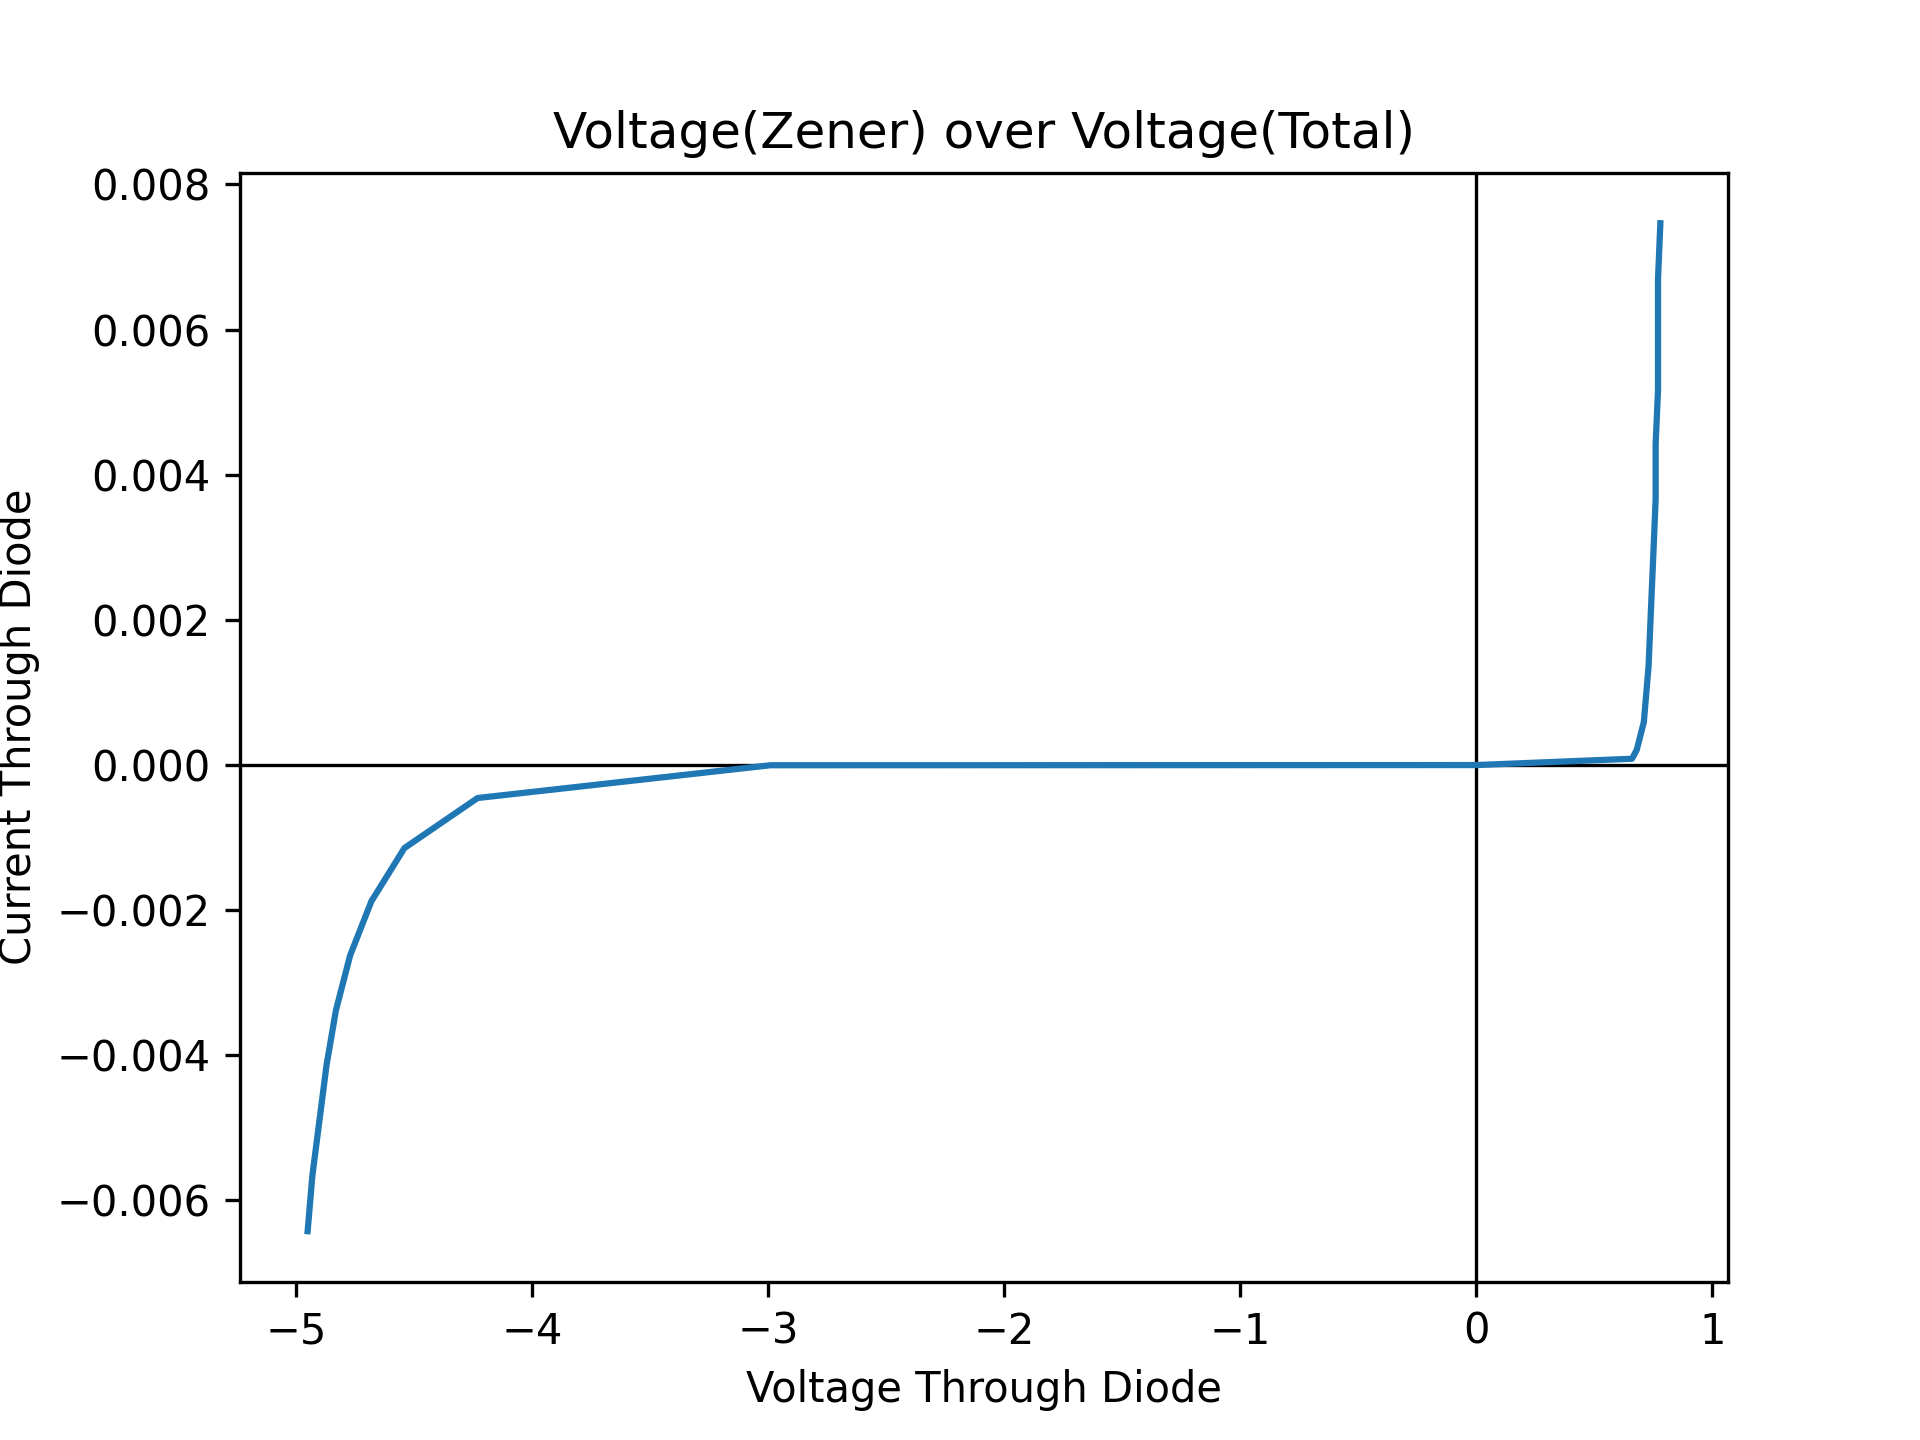
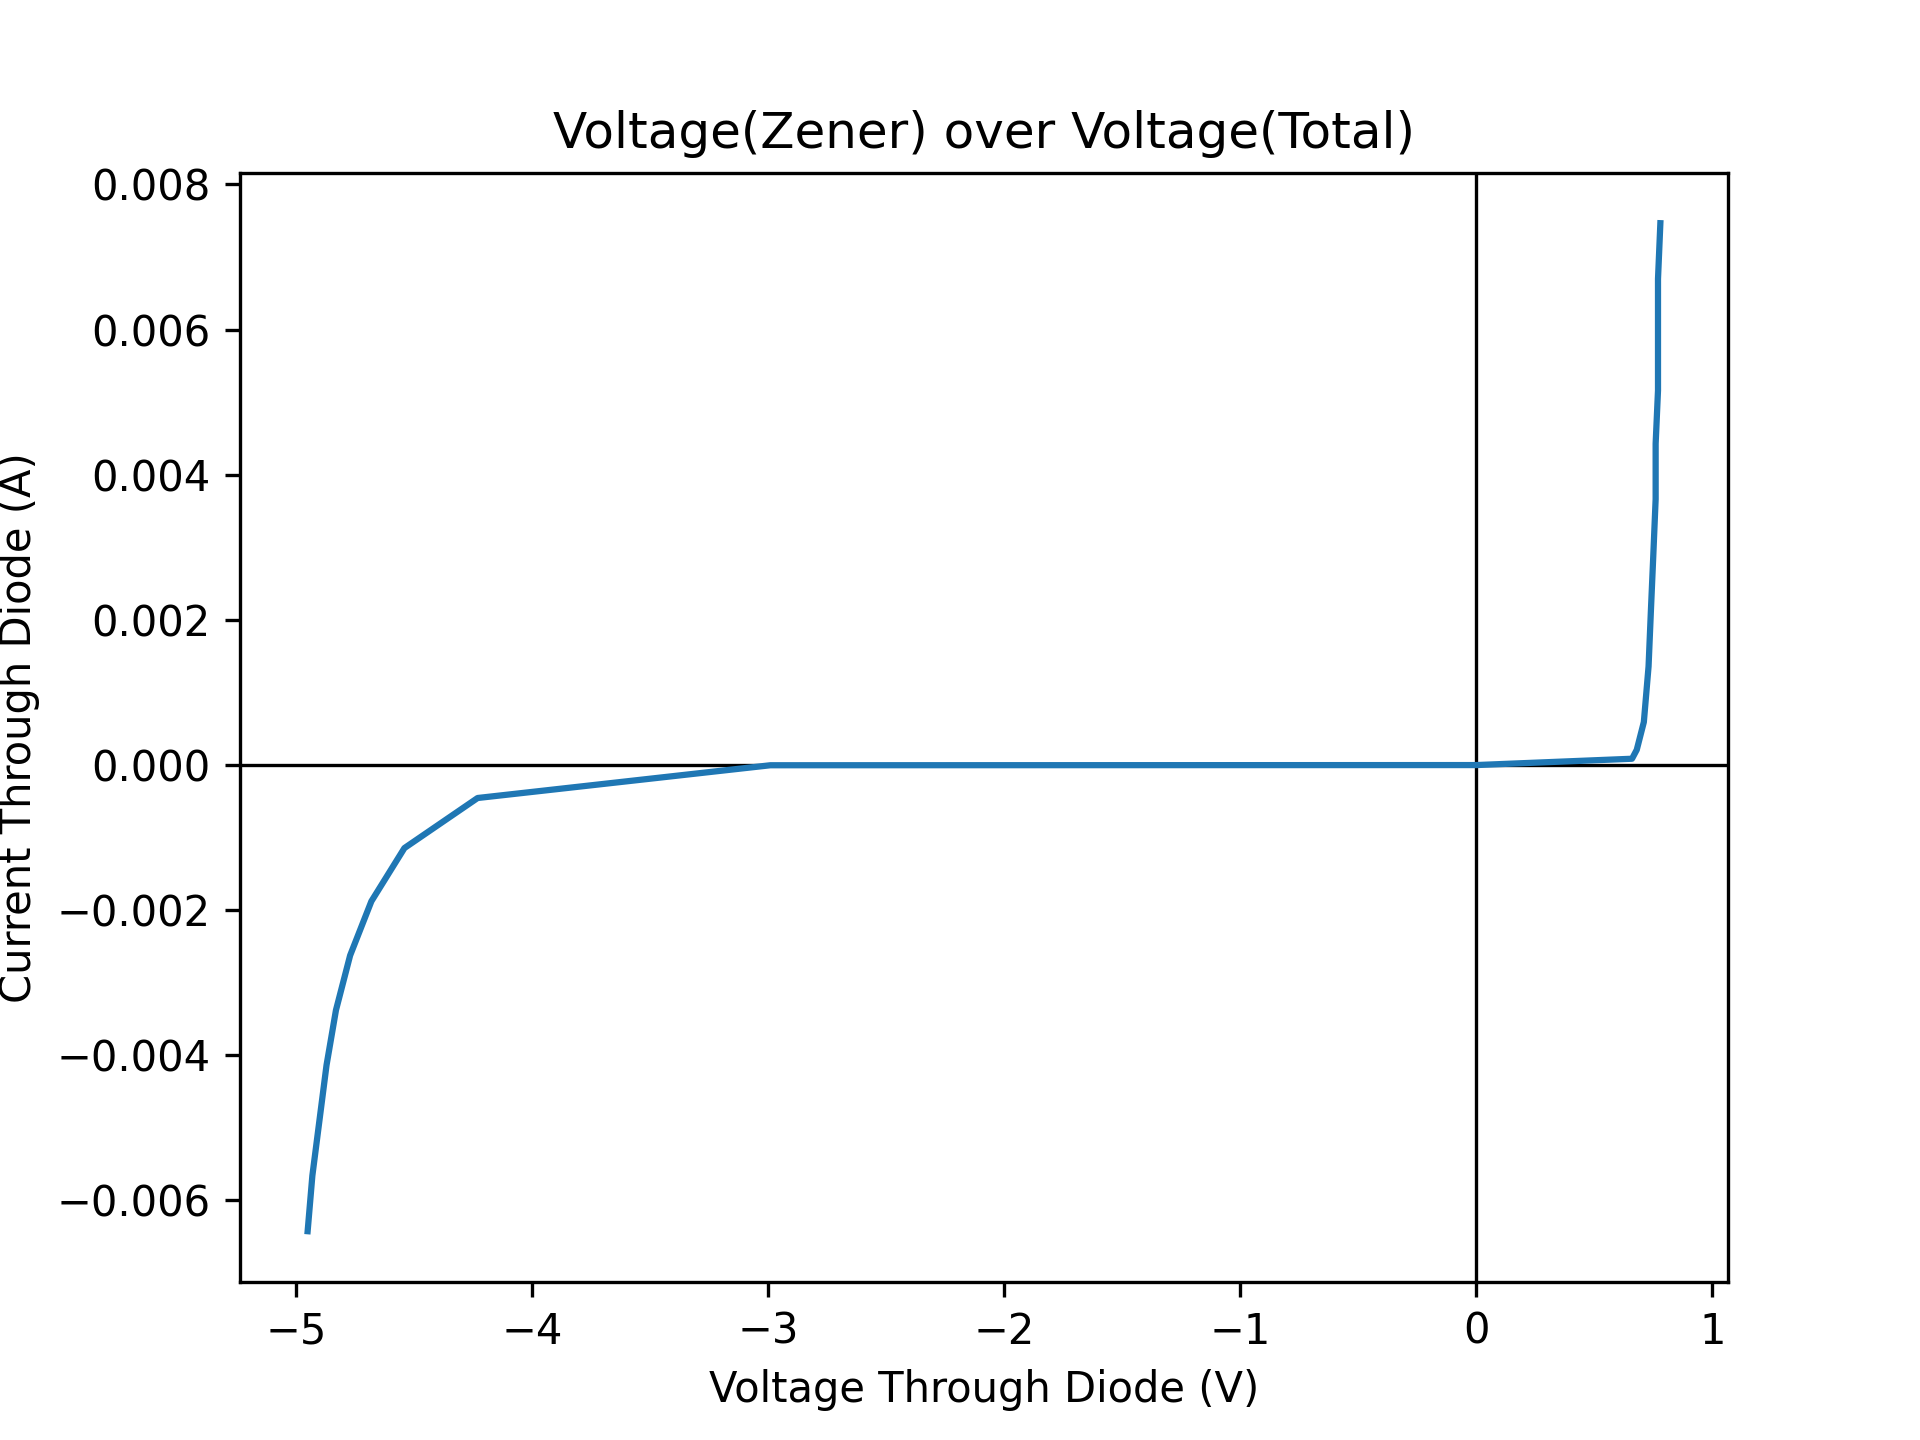
gitshit

Changed region(s): [[0.375, 0.9375, 0.6562, 1.0], [0.0, 0.3125, 0.0312, 0.6875]]

diff --git a/src/9week/physics/physics.py b/src/9week/physics/physics.py
@@ -48,26 +48,19 @@ v1v2list.sort(key=lambda x: x[0])
 v1list = [x[0] for x in v1v2list]
 v2list = [x[1] for x in v1v2list]
 currentlist = [(x[0] - x[1]) / 3900 for x in v1v2list]
-# print(currentlist)
-# print(v1list)
-# print(v2list)
-# [print(x) for x in zip(currentlist, v1list, v2list)]
-
 plt.axhline(0, color="black", linewidth=0.8)
 plt.axvline(0, color="black", linewidth=0.8)
-
 plt.plot(v2list, currentlist)
-# plt.axvline(0.67, color="black", linewidth=0.8)
 plt.title("Voltage(Zener) over Voltage(Total)")
-plt.xlabel("Voltage Through Diode")
-plt.ylabel("Current Through Diode")
+plt.xlabel("Voltage Through Diode (V)")
+plt.ylabel("Current Through Diode (A)")
 plt.savefig("currentvoltage", dpi=300)
 plt.clf()
 
 plt.plot(v1list, v2list)
-plt.title("Voltage vs Current over Zener diode")
-plt.xlabel("V1 (Volts)")
-plt.ylabel("V2 (Volts)")
+plt.title("Voltage(Total) vs Voltage(Diode)")
+plt.xlabel("Voltage(Total) (V)")
+plt.ylabel("Voltage(Diode) (V)")
 plt.savefig("volts vs volts", dpi=300)
 plt.clf()
 
@@ -106,9 +99,11 @@ part2vlist.sort(key=lambda x: x[0])
 v1list = [x[0] for x in part2vlist]
 v2list = [x[1] for x in part2vlist]
 
-plt.plot(v1list, v2list)
+plt.plot(v1list, v2list,err=[x for x in v1list])
+plt.title("Total Voltage vs Voltage through Diode + 1k resistor")
+plt.xlabel("Total Voltage (V)")
+plt.ylabel("Voltage through resistors (V)")
 plt.savefig("part2", dpi=300)
-plt.title("part2")
 # plt.xlabel("Voltage Through Diode")
 # plt.ylabel("Current Through Diode")
 

diff --git a/src/8week/physics/lab/atmospherevpython.py b/src/8week/physics/lab/atmospherevpython.py
@@ -1,0 +1,53 @@
+from vpython import *
+
+pivot = vector(0, 1+0.2, 0)
+pos = vector(0, 0, 0)
+
+weight = sphere(
+    pos=vector(0, -4.9, 0),
+    radius=0.2,
+    color=color.red,
+    vel=vector(0, 0, 0),
+    mass=5,
+    make_trail=True,
+    retain=50,
+)
+spring = helix(pos=pivot, axis=(weight.pos - pivot), color=color.blue, make_trail=True, retain=50)
+
+# Set up a loop for the simulation
+
+t = 0
+
+dt = 0.01
+g = vector(0, -9.8, 0)
+print(pi)
+
+while True:
+    for _ in range(10000):
+        # print(weight.pos)
+        T = 2 * pi * ((5 / 10) ** 0.5)
+        # T = 2 * pi * ((14.9 / 9.8) ** 0.5)
+        # T = 10
+
+        rate(1000)
+        
+        dragforce = (
+            0.5 * 0.7 * 1.1 * pi * (0.2**2) * (mag(weight.vel) ** 2) * norm(weight.vel)
+        )
+        weight.vel -= dragforce / weight.mass * dt
+
+        weight.vel += g * dt
+
+        stretch = weight.pos - pivot
+        weight.vel -= (10 / weight.mass) * (stretch - 10 * norm(stretch)) * dt
+
+        weight.pos += weight.vel * dt
+
+        t += dt
+
+        pivot = 0.2 * vector(sin(2 * pi * t / T), cos(2 * pi * t / T), 0) + vector(
+            0, 10, 0
+        )
+        spring.pos = pivot
+        spring.axis = weight.pos - pivot
+    # break
